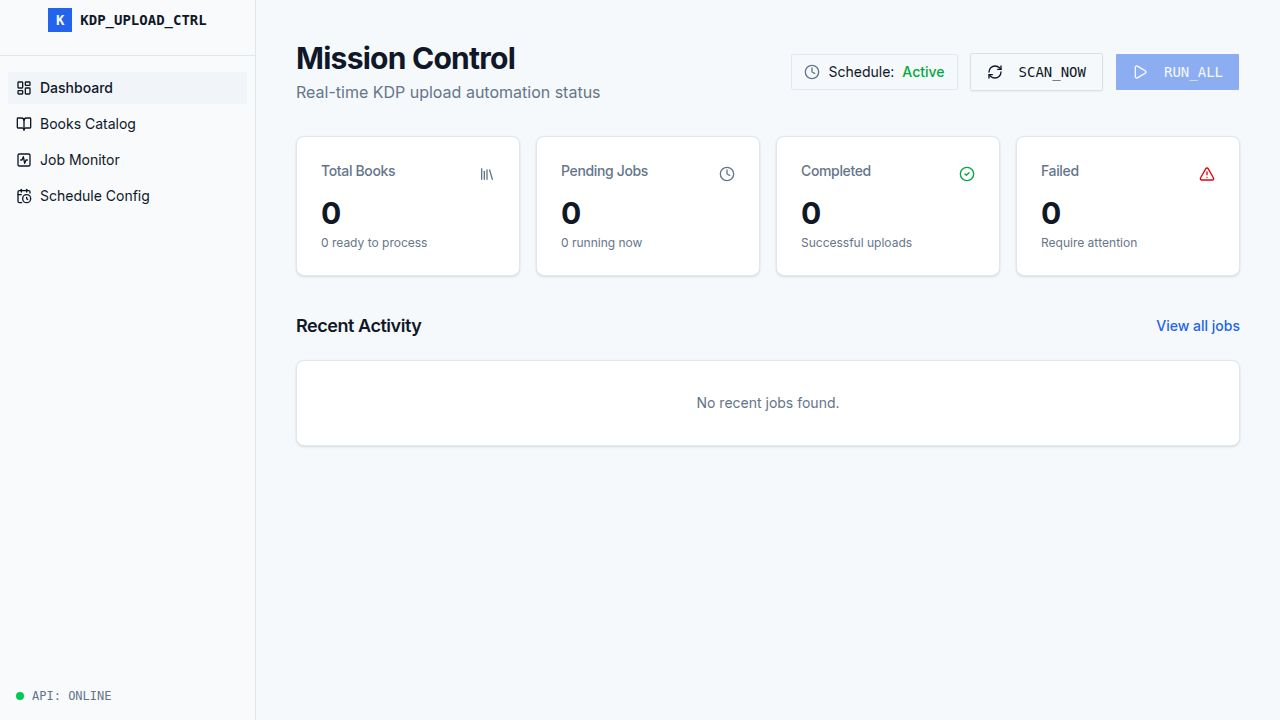
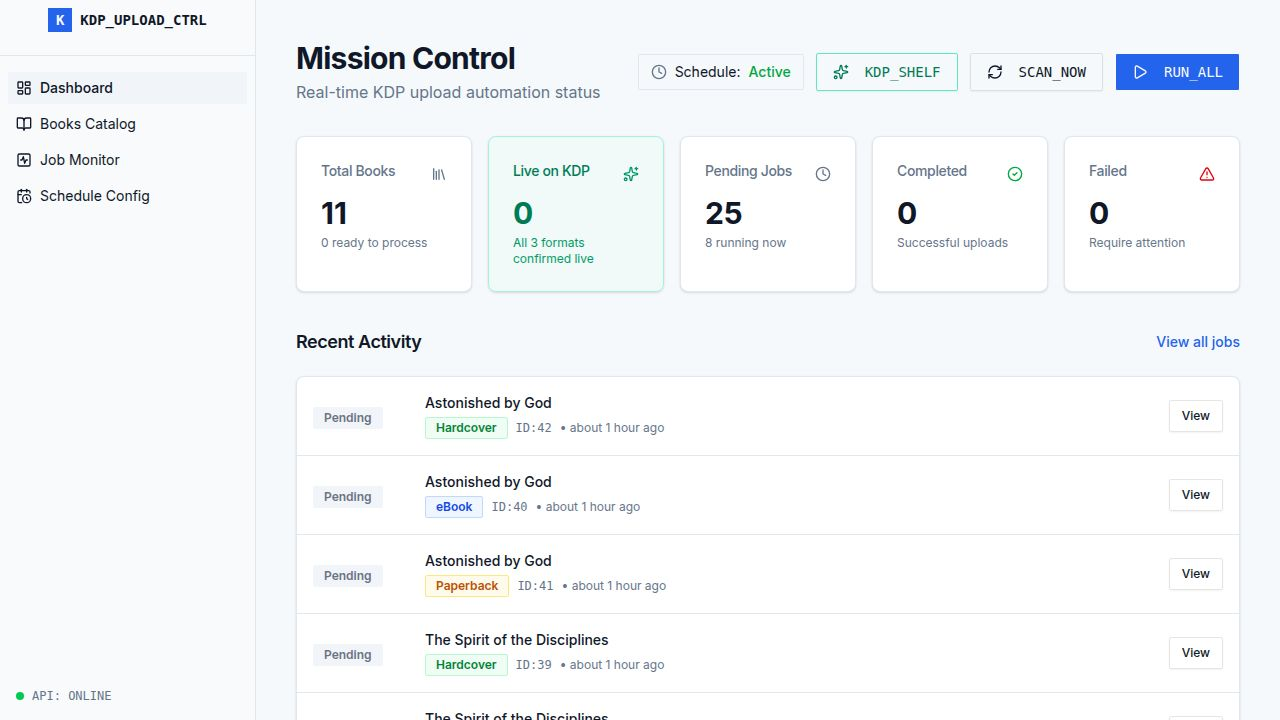
Add local Chrome connection for automated tasks
Update agent runner to connect to an existing Chrome instance via CDP when configured, allowing for reuse of existing browser sessions and cookies, and adjust KDP bookshelf URL.

Replit-Commit-Author: Agent
Replit-Commit-Session-Id: ed7474f6-eba3-49be-ae95-2623f31fe374
Replit-Commit-Checkpoint-Type: full_checkpoint
Replit-Commit-Event-Id: 31fedbbc-91ba-498a-af0a-81abf630ead0
Replit-Commit-Screenshot-Url: https://storage.googleapis.com/screenshot-production-us-central1/9eca0e28-34a0-4418-9f5c-60e618813417/ed7474f6-eba3-49be-ae95-2623f31fe374/gwmvMFI
Replit-Helium-Checkpoint-Created: true

diff --git a/artifacts/api-server/src/lib/agent-runner.ts b/artifacts/api-server/src/lib/agent-runner.ts
@@ -43,36 +43,69 @@ const FIXED = {
 fs.mkdirSync(SCREENSHOT_DIR, { recursive: true });
 
 // ─── Browser singleton ────────────────────────────────────────────────────────
+//
+// Two modes:
+//
+//  CDP mode (recommended for local use):
+//    Set CDP_ENDPOINT=http://localhost:9222 and start Chrome with:
+//      --remote-debugging-port=9222
+//    Playwright attaches to the *existing* Chrome session, inheriting all
+//    cookies and open tabs (KDP login, study guides, etc.).
+//
+//  Headless mode (Replit / CI):
+//    No CDP_ENDPOINT set — a fresh headless Chromium is launched.
+//    Requires a manual KDP login before any upload jobs run.
+
+const CDP_ENDPOINT = process.env.CDP_ENDPOINT;
 
 let browserInstance: Browser | null = null;
 let browserContext: BrowserContext | null = null;
 
 export async function getBrowser(): Promise<{ browser: Browser; context: BrowserContext }> {
   if (!browserInstance || !browserInstance.isConnected()) {
-    logger.info("Launching Playwright browser");
-    browserInstance = await chromium.launch({
-      headless: true,
-      args: [
-        "--no-sandbox",
-        "--disable-setuid-sandbox",
-        "--disable-dev-shm-usage",
-        "--disable-accelerated-2d-canvas",
-        "--no-first-run",
-        "--no-zygote",
-        "--disable-gpu",
-        "--window-size=1280,900",
-      ],
-    });
+    // Reset context whenever the browser instance is recreated
+    browserContext = null;
+
+    if (CDP_ENDPOINT) {
+      // Attach to the user's running Chrome — inherits live KDP session, cookies, etc.
+      logger.info({ cdpEndpoint: CDP_ENDPOINT }, "Connecting to existing Chrome via CDP");
+      browserInstance = await chromium.connectOverCDP(CDP_ENDPOINT);
+      logger.info("CDP connection established");
+    } else {
+      logger.info("Launching headless Playwright browser (CDP_ENDPOINT not set)");
+      browserInstance = await chromium.launch({
+        headless: true,
+        args: [
+          "--no-sandbox",
+          "--disable-setuid-sandbox",
+          "--disable-dev-shm-usage",
+          "--disable-accelerated-2d-canvas",
+          "--no-first-run",
+          "--no-zygote",
+          "--disable-gpu",
+          "--window-size=1280,900",
+        ],
+      });
+    }
   }
 
   if (!browserContext) {
-    browserContext = await browserInstance.newContext({
-      viewport: { width: 1280, height: 900 },
-      userAgent:
-        "Mozilla/5.0 (Macintosh; Intel Mac OS X 10_15_7) AppleWebKit/537.36 (KHTML, like Gecko) Chrome/120.0.0.0 Safari/537.36",
-      acceptDownloads: true,
-    });
-    // Capture new pages (e.g. Print Previewer opens in new tab)
+    if (CDP_ENDPOINT && browserInstance.contexts().length > 0) {
+      // Reuse the default Chrome profile context — it holds all live session cookies
+      browserContext = browserInstance.contexts()[0];
+      logger.info(
+        { openPages: browserContext.pages().length },
+        "Reusing existing Chrome context (CDP mode)",
+      );
+    } else {
+      browserContext = await browserInstance.newContext({
+        viewport: { width: 1280, height: 900 },
+        userAgent:
+          "Mozilla/5.0 (Macintosh; Intel Mac OS X 10_15_7) AppleWebKit/537.36 (KHTML, like Gecko) Chrome/120.0.0.0 Safari/537.36",
+        acceptDownloads: true,
+      });
+    }
+
     browserContext.on("page", (p) => {
       logger.info({ url: p.url() }, "New page/tab opened in browser context");
     });

diff --git a/artifacts/api-server/src/lib/kdp-bookshelf-scanner.ts b/artifacts/api-server/src/lib/kdp-bookshelf-scanner.ts
@@ -14,7 +14,7 @@ import { logger } from "./logger";
 import path from "path";
 import fs from "fs";
 
-const KDP_BOOKSHELF_URL = "https://kdp.amazon.com/en_US/title-setup/dashboard";
+const KDP_BOOKSHELF_URL = "https://kdp.amazon.com/en_US/bookshelf";
 const SCREENSHOT_DIR = path.resolve(process.cwd(), "artifacts/api-server/uploads/screenshots");
 
 export type KdpFormatStatus =

diff --git a/replit.md b/replit.md
@@ -12,6 +12,59 @@ An AI-powered dashboard that automatically discovers new book titles from script
 - `pnpm --filter @workspace/db run push` — push DB schema changes (dev only)
 - Required env: `DATABASE_URL` — Postgres connection string
 - Required env: `AI_INTEGRATIONS_ANTHROPIC_BASE_URL` + `AI_INTEGRATIONS_ANTHROPIC_API_KEY` — auto-set by Replit Anthropic integration
+- Optional env: `CDP_ENDPOINT` — set to `http://localhost:9222` when running locally with Chrome remote debugging (see Local Machine Setup below)
+
+## Local Machine Setup
+
+When running on a local computer, the app connects directly to your existing Chrome browser session so it can reuse your live Amazon KDP login — no separate login or headless browser needed.
+
+### Step 1 — Launch Chrome with remote debugging enabled
+
+**macOS:**
+```bash
+/Applications/Google\ Chrome.app/Contents/MacOS/Google\ Chrome \
+  --remote-debugging-port=9222 \
+  --user-data-dir="$HOME/chrome-kdp-profile"
+```
+
+**Windows (run as Administrator):**
+```cmd
+"C:\Program Files\Google\Chrome\Application\chrome.exe" ^
+  --remote-debugging-port=9222 ^
+  --user-data-dir="%USERPROFILE%\chrome-kdp-profile"
+```
+
+> The `--user-data-dir` flag creates a separate Chrome profile just for this tool, so it doesn't conflict with your regular Chrome window. You only need to log into KDP, Google, etc. once in this profile — it persists across restarts.
+
+### Step 2 — Open the three required tabs in that Chrome window
+
+1. **Amazon KDP Bookshelf** — `https://kdp.amazon.com/en_US/bookshelf` (log in to your KDP account)
+2. **My Study Guides** — `https://scripturemadesimple.replit.app/my-studies`
+3. **KDP Upload Automation** — `http://localhost:3000` (or wherever the frontend is served)
+
+### Step 3 — Set environment variables
+
+Copy `artifacts/api-server/.env.example` to `artifacts/api-server/.env` and fill in:
+
+```env
+DATABASE_URL=postgresql://...
+AI_INTEGRATIONS_ANTHROPIC_API_KEY=sk-ant-...
+AI_INTEGRATIONS_ANTHROPIC_BASE_URL=https://api.anthropic.com
+SESSION_SECRET=<any long random string>
+CDP_ENDPOINT=http://localhost:9222
+PORT=8080
+```
+
+### Step 4 — Start the app
+
+```bash
+pnpm --filter @workspace/api-server run dev   # API on :8080
+pnpm --filter @workspace/kdp-uploader run dev # Dashboard on :3000
+```
+
+When `CDP_ENDPOINT` is set, every browser action (uploads, bookshelf scans) opens a new tab in your existing Chrome window. The new tab inherits all cookies, so KDP is already logged in. After the action finishes, the tab is closed automatically.
+
+---
 
 ## Stack
 
@@ -22,7 +75,7 @@ An AI-powered dashboard that automatically discovers new book titles from script
 - Validation: Zod (`zod/v4`), `drizzle-zod`
 - API codegen: Orval (from OpenAPI spec)
 - Build: esbuild (CJS bundle)
-- Browser automation: Playwright (Chromium headless)
+- Browser automation: Playwright (CDP connection to existing Chrome, or headless fallback)
 - AI vision: Claude claude-sonnet-4-6 via Replit Anthropic integration
 - Scheduling: node-cron
 
@@ -31,24 +84,26 @@ An AI-powered dashboard that automatically discovers new book titles from script
 - `lib/api-spec/openapi.yaml` — API contract (source of truth)
 - `lib/db/src/schema/` — DB tables: books, upload_jobs, job_logs, schedule_config
 - `artifacts/api-server/src/lib/agent-runner.ts` — Claude computer use + Playwright agent
+- `artifacts/api-server/src/lib/kdp-bookshelf-scanner.ts` — KDP bookshelf status scanner
 - `artifacts/api-server/src/lib/book-scanner.ts` — scraper for scripturemadesimple.replit.app
 - `artifacts/api-server/src/lib/scheduler.ts` — node-cron scheduler
-- `artifacts/api-server/src/routes/` — API route handlers
 - `artifacts/api-server/uploads/screenshots/` — agent screenshots stored here
+- `artifacts/api-server/.env.example` — example environment file for local setup
 - `artifacts/kdp-uploader/src/` — dashboard frontend
 
 ## Architecture decisions
 
 - Agent runner uses Claude claude-sonnet-4-6 vision to interpret screenshots and decide actions, making it resilient to KDP UI layout changes.
-- Single Playwright browser instance shared across all agent runs to preserve the user's logged-in KDP session.
+- Browser access is via CDP connection to the user's existing Chrome (local mode) or a headless Chromium instance (Replit/CI mode). Single shared browser context preserves the KDP session.
 - Jobs run sequentially (not parallel) to avoid triggering KDP rate limits or bot detection.
+- Bookshelf scanner runs at the start of each scheduled cycle to update live/review/draft status per format before deciding which jobs to run. Already-live formats are skipped.
 - Book scanner parses scripturemadesimple.replit.app with cheerio; falls back to heading-proximity scan if the deep strategy finds nothing.
 - Screenshots saved to disk and served as static files under `/api/screenshots/` for display in the dashboard.
 
 ## Product
 
-- Dashboard: real-time stats, Scan Now + Run All buttons, schedule status
-- Books Catalog: all discovered titles with per-format upload status badges
+- Dashboard: real-time stats, Scan Now + KDP Shelf + Run All buttons, Live on KDP counter
+- Books Catalog: all discovered titles with upload job status and KDP live status (eBook/PB/HC) per row
 - Book Detail: assets, KDP content data, job cards per format with full log view
 - Job Monitor: all jobs filterable by status and format, auto-polls while jobs are running
 - Schedule Config: enable/disable automation, edit cron expression (default: hourly)
@@ -62,11 +117,12 @@ An AI-powered dashboard that automatically discovers new book titles from script
 
 ## Gotchas
 
-- The Playwright browser must have an active KDP session — the user keeps a browser session open and the agent reuses it. Since the agent runs headless, first-time KDP login needs to be handled manually or by navigating to KDP in a visible browser first.
+- `CDP_ENDPOINT` must point to Chrome started with `--remote-debugging-port=9222`. The matching `--user-data-dir` keeps this profile separate from your regular Chrome.
 - `pnpm --filter @workspace/db run push` must be run after any schema changes.
 - After changing `lib/api-spec/openapi.yaml`, always re-run codegen before typechecking leaf packages.
 - Run `pnpm run typecheck:libs` after changing any `lib/*` package before checking artifacts.
 - Screenshots directory is auto-created at `artifacts/api-server/uploads/screenshots/`.
+- The bookshelf scanner URL is `https://kdp.amazon.com/en_US/bookshelf` (matches the tab shown in the browser).
 
 ## Pointers
 